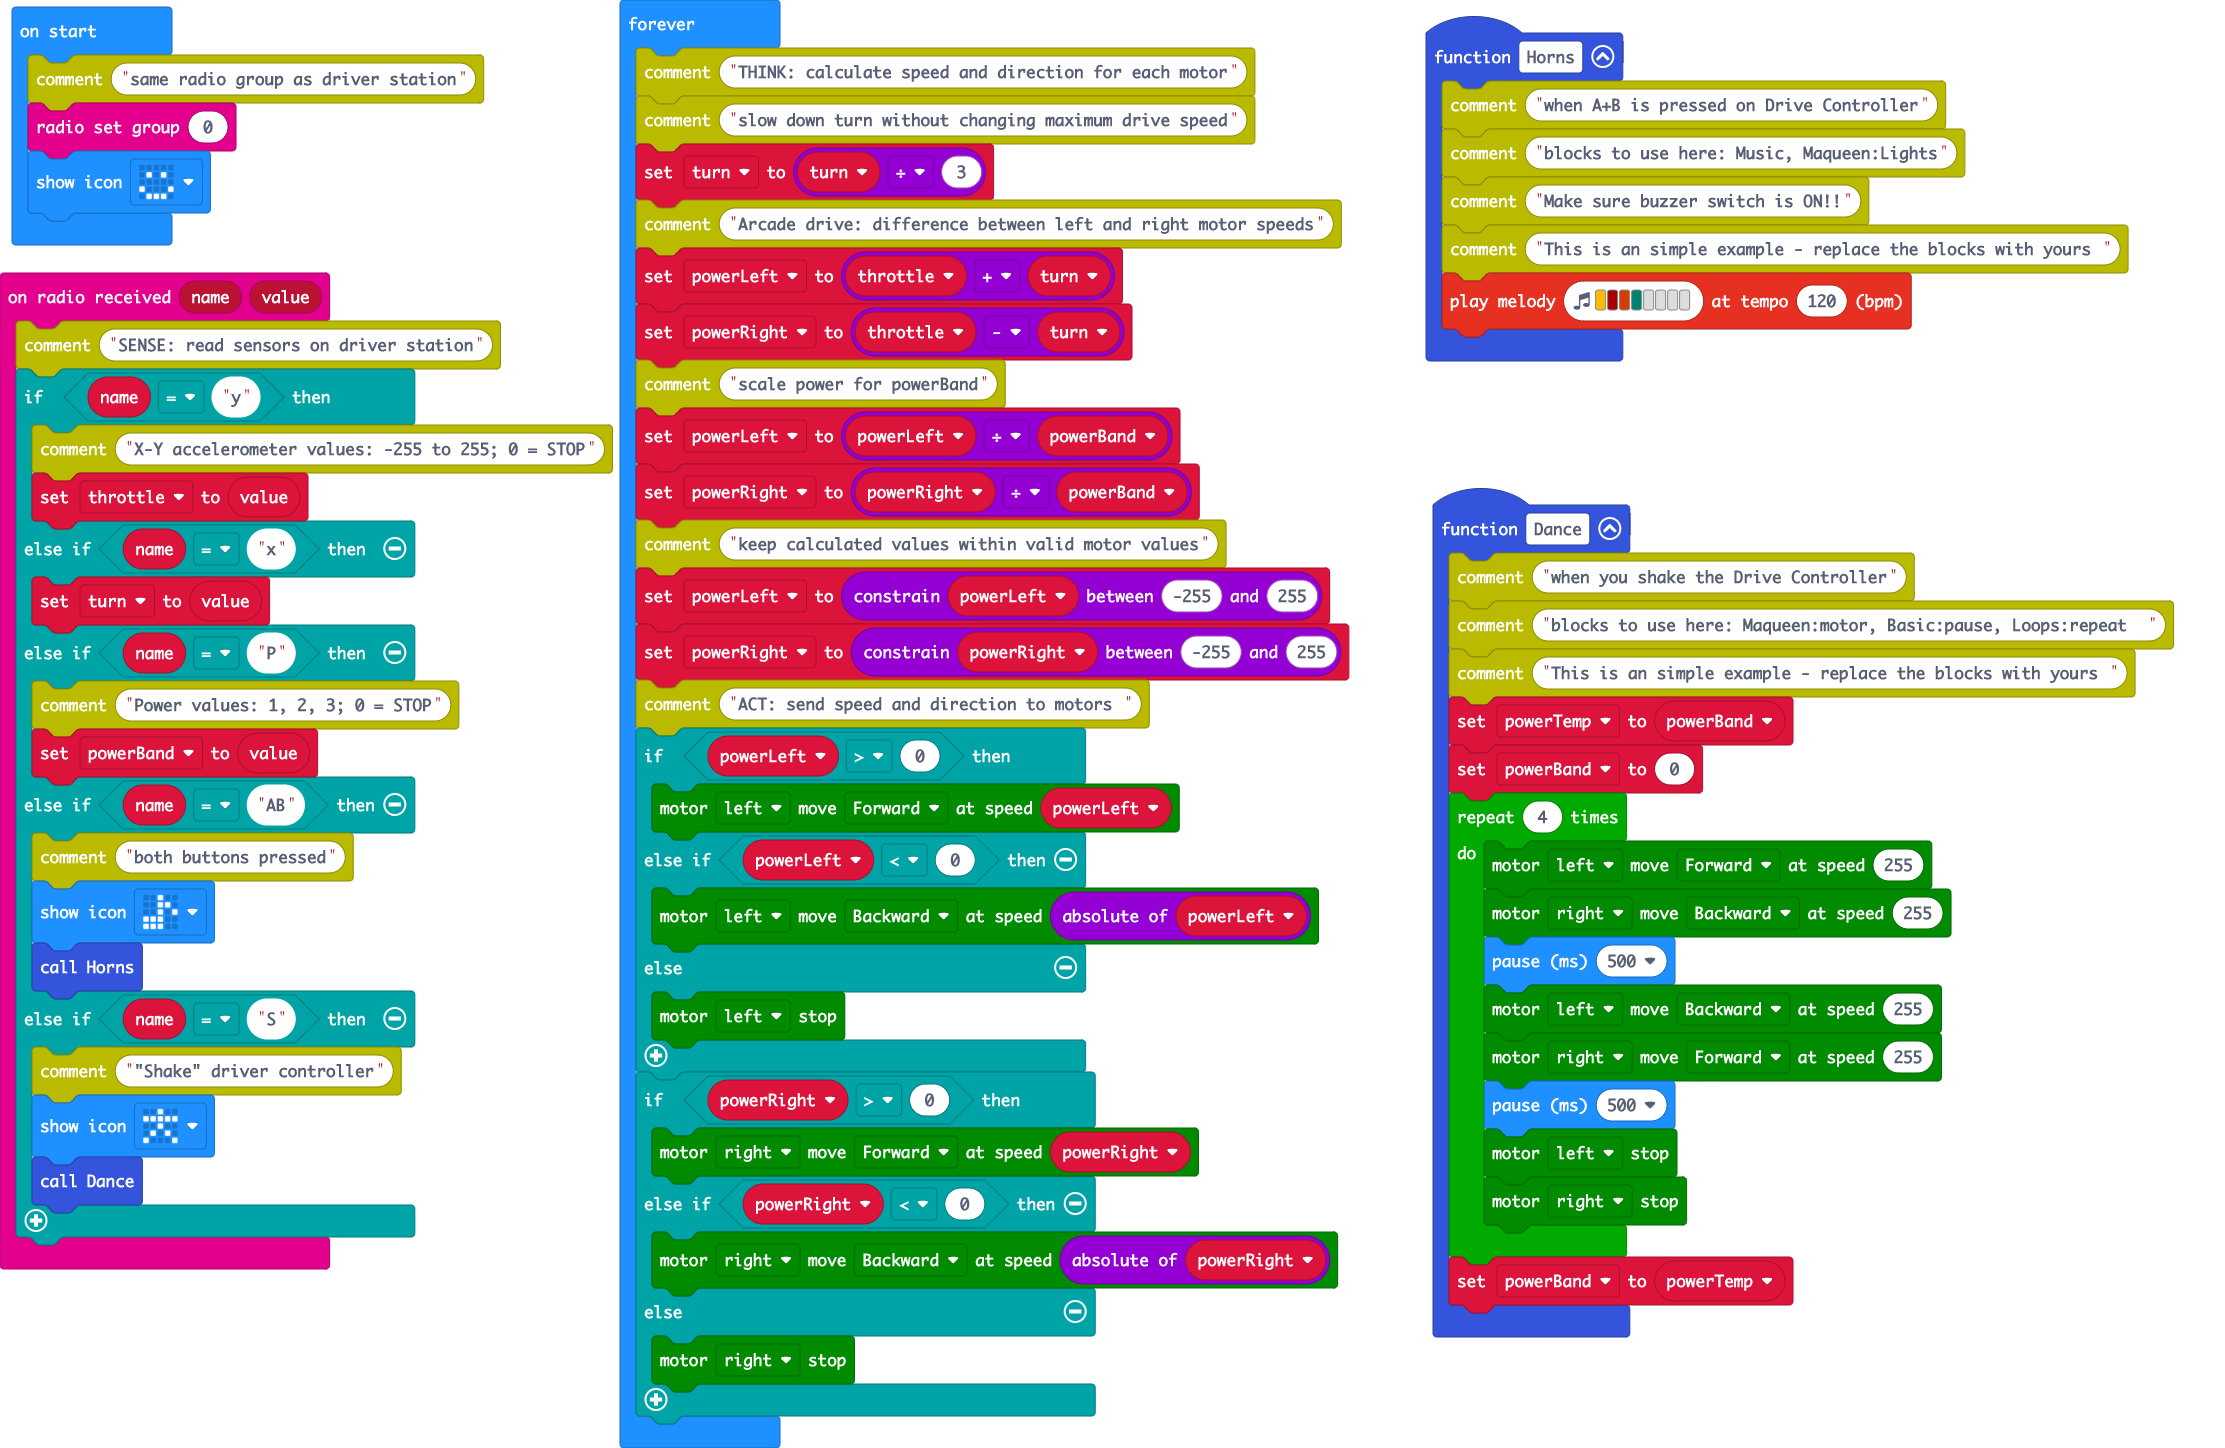
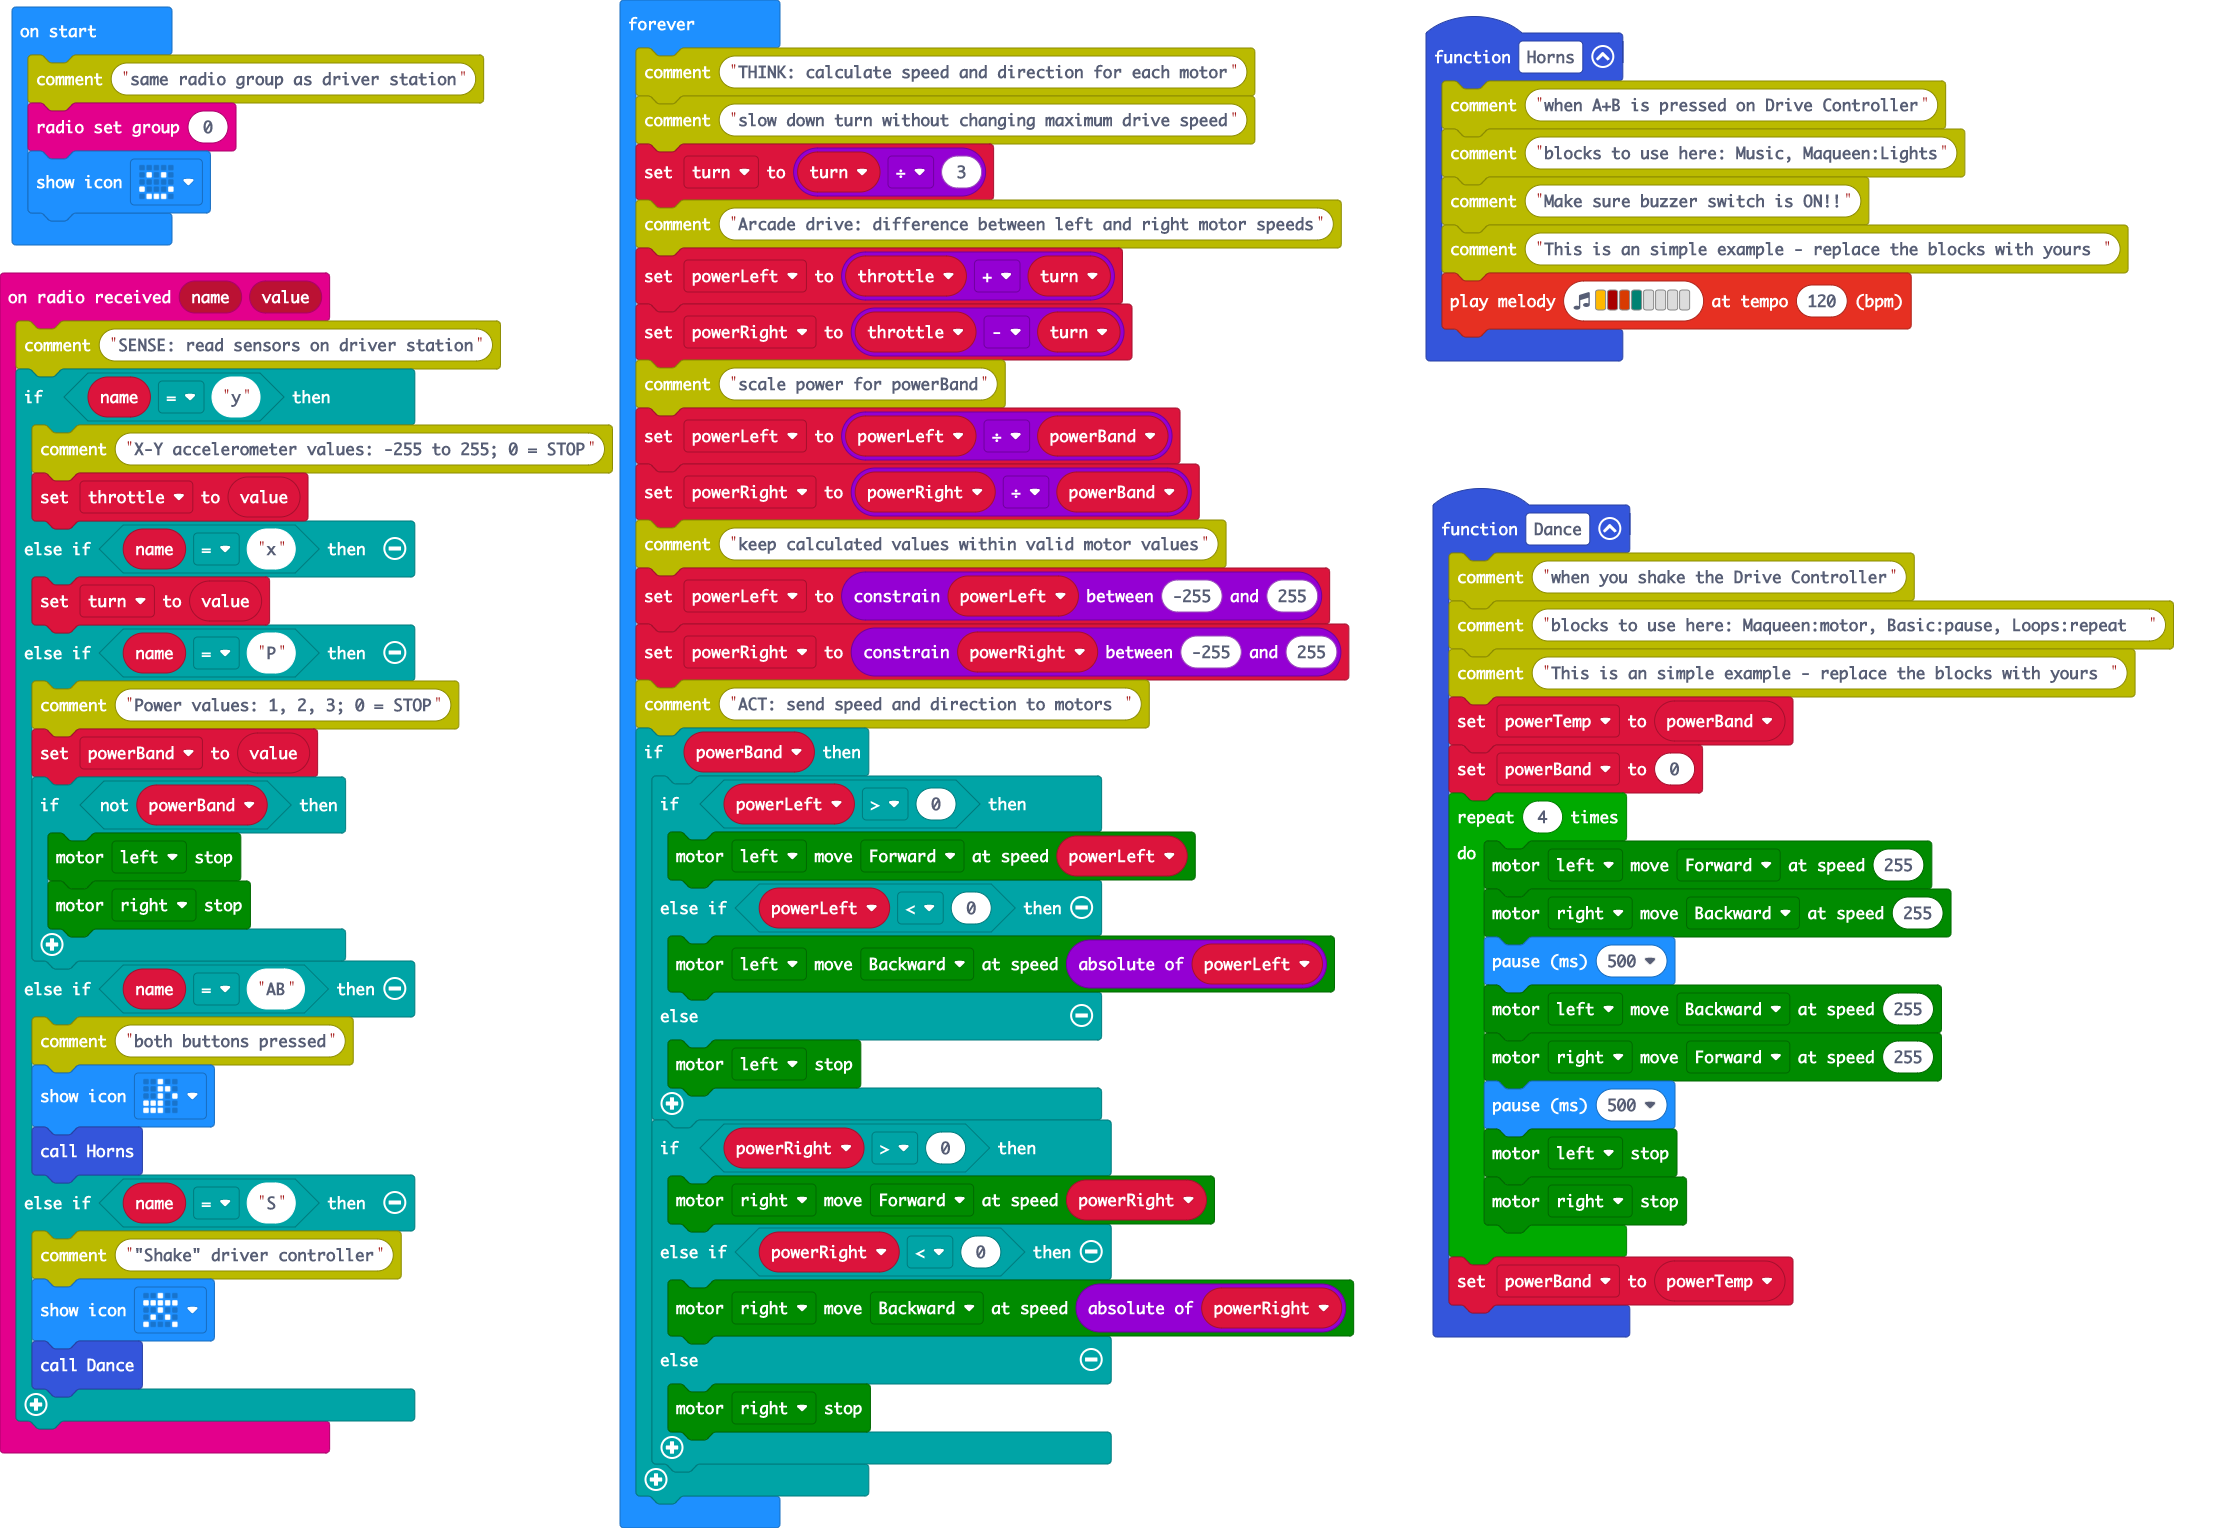
Update main.blocks, main.ts

diff --git a/main.ts b/main.ts
@@ -33,6 +33,10 @@ radio.onReceivedValue(function (name, value) {
     } else if (name == "P") {
         comment.comment("Power values: 1, 2, 3; 0 = STOP")
         powerBand = value
+        if (!(powerBand)) {
+            maqueen.motorStop(maqueen.Motors.M1)
+            maqueen.motorStop(maqueen.Motors.M2)
+        }
     } else if (name == "AB") {
         comment.comment("both buttons pressed")
         basic.showIcon(IconNames.EigthNote)
@@ -66,18 +70,20 @@ basic.forever(function () {
     powerLeft = Math.constrain(powerLeft, -255, 255)
     powerRight = Math.constrain(powerRight, -255, 255)
     comment.comment("ACT: send speed and direction to motors ")
-    if (powerLeft > 0) {
-        maqueen.motorRun(maqueen.Motors.M1, maqueen.Dir.CW, powerLeft)
-    } else if (powerLeft < 0) {
-        maqueen.motorRun(maqueen.Motors.M1, maqueen.Dir.CCW, Math.abs(powerLeft))
-    } else {
-        maqueen.motorStop(maqueen.Motors.M1)
-    }
-    if (powerRight > 0) {
-        maqueen.motorRun(maqueen.Motors.M2, maqueen.Dir.CW, powerRight)
-    } else if (powerRight < 0) {
-        maqueen.motorRun(maqueen.Motors.M2, maqueen.Dir.CCW, Math.abs(powerRight))
-    } else {
-        maqueen.motorStop(maqueen.Motors.M2)
+    if (powerBand) {
+        if (powerLeft > 0) {
+            maqueen.motorRun(maqueen.Motors.M1, maqueen.Dir.CW, powerLeft)
+        } else if (powerLeft < 0) {
+            maqueen.motorRun(maqueen.Motors.M1, maqueen.Dir.CCW, Math.abs(powerLeft))
+        } else {
+            maqueen.motorStop(maqueen.Motors.M1)
+        }
+        if (powerRight > 0) {
+            maqueen.motorRun(maqueen.Motors.M2, maqueen.Dir.CW, powerRight)
+        } else if (powerRight < 0) {
+            maqueen.motorRun(maqueen.Motors.M2, maqueen.Dir.CCW, Math.abs(powerRight))
+        } else {
+            maqueen.motorStop(maqueen.Motors.M2)
+        }
     }
 })
